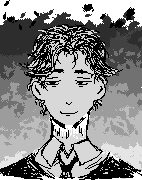
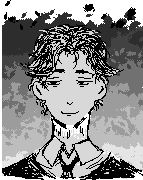
more polish

diff --git a/character_overlay.py b/character_overlay.py
@@ -4,6 +4,7 @@ import pygame
 BC1_FRAME_PATHS = [
     "img_keys/1C1.png",
     "img_keys/1C2.png",
+    "img_keys/1C3.png",
 ]
 
 BC2_FRAME_PATHS = [
@@ -17,15 +18,15 @@ BC2_FRAME_TIME_MS = 700
 
 # Adjust these to move/resize BC1 everywhere.
 BC1_X = 36
-BC1_Y = 68
-BC1_WIDTH = 175
-BC1_HEIGHT = 185
+BC1_Y = 53
+BC1_WIDTH = 180
+BC1_HEIGHT = 200
 
 # Adjust these to move/resize BC2 everywhere.
-BC2_X = 805
-BC2_Y = 68
-BC2_WIDTH = 175
-BC2_HEIGHT = 185
+BC2_X = 803
+BC2_Y = 50
+BC2_WIDTH = 182
+BC2_HEIGHT = 200
 
 
 _cached_bc1_frames = None
